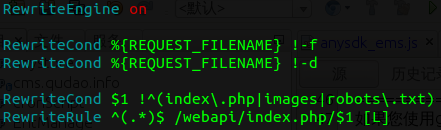
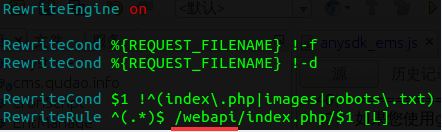
完善文档中有关apache+win环境的说明

diff --git a/README.md b/README.md
@@ -51,15 +51,16 @@ miniGameServer只适用于单机手机游戏在没有游戏服务器的情况下
 5.1、将代码上传到服务器
 ------------------
 代码需要上传到web服务器的根目录，如果web服务器是nginx，可以参照代码目录中的web-conf/nginx.conf来配置nginx的虚拟主机。
+
 假设以 /var/www/html/mobgame 为web根目录，将项目代码上传到此目录下，项目的index.php的路径应为 /var/www/html/mobgame/index.php ，此时nginx虚拟主机的urlrewrite规则为：
 
 ![rewriterules](statics/docimg/readme.md.rewriterules-1.png)
 
-如果程序不是上传到nginx虚拟主机的根目录，以 /var/www/html/mobgame 为web根目录，index.php的路径为 /var/www/html/mobgame/webapi/index.php，则使用如下urlrewrite规则：
+假设程序不是上传到nginx虚拟主机的根目录，则需要修改nginx配置文件的url rewrite规则。例如：以 /var/www/html/mobgame 为web根目录，代码放在/var/www/html/mobgame/webapi/目录下（则index.php的路径为 /var/www/html/mobgame/webapi/index.php），则使用如下urlrewrite规则：
 
 ![rewriterules](statics/docimg/readme.md.rewriterules-2.png)
 
-同理，在apache环境下，如果程序不是上传到apache虚拟主机的根目录，以 /var/www/html/mobgame 为web根目录，index.php的路径为 /var/www/html/mobgame/webapi/index.php，则需要修改程序目录下的.htaccess文件，如下图：
+假设web服务器是apache，以 /var/www/html/mobgame 为web根目录，程序不是上传到apache虚拟主机的web根目录，则需要修改程序目录下的.htaccess文件。例如，代码放在/var/www/html/mobgame/webapi/目录下，则index.php的路径为 /var/www/html/mobgame/webapi/index.php，参照下图修改程序目录下的.htaccess文件：
 
 ![rewriterules-for-apache](statics/docimg/readme.md.rewriterules-3.png)
 
